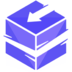
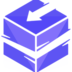
affd

diff --git a/src/pages/HomePageNew.js b/src/pages/HomePageNew.js
@@ -20,7 +20,6 @@ import {archiData, imgTechList, questionsList1, questionsList2, reviewList} from
 import {useViewport} from "../hook/useViewport";
 
 export default function HomePageNew () {
-    const viewPort = useViewport();
     // console.log(viewPort)
 
     const sliderRef = useRef(null);
@@ -37,7 +36,7 @@ export default function HomePageNew () {
 
     return (
         <main className='max-w-7xl mx-auto m-auto text-white h-auto mt-5'>
-            <section className='h-auto lg:pb-20'>
+            <section className='h-auto lg:pb-20 px-2 lg:px-0'>
                 <motion.div
                     variants={staggerContainer}
                     initial="hidden"
@@ -296,8 +295,8 @@ export default function HomePageNew () {
                             ref={sliderRef}
                             spaceBetween={0}
                             breakpoints={{
-                                320: { slidesPerView: 2, spaceBetween: 5 },
-                                480: { slidesPerView: 2, spaceBetween: 0 },
+                                320: { slidesPerView: 1, spaceBetween: 0 },
+                                480: { slidesPerView: 1, spaceBetween: 0 },
                                 768: { slidesPerView: 3, spaceBetween: 0 },
                                 1024: { slidesPerView: 4, spaceBetween: 5 },
                             }}
@@ -340,7 +339,7 @@ export default function HomePageNew () {
                 <p className='text-center lg:text-[60px] text-[48px] font-bold mb-5'>
                     Câu hỏi thường gặp
                 </p>
-                <div className='absolute h-[300px] w-full grid lg:grid-cols-2 grid-cols-1 lg:gap-10 gap-0 mb-10'>
+                <div className='lg:absolute lg:h-[300px] h-auto w-full grid lg:grid-cols-2 grid-cols-1 lg:gap-10 gap-0 lg:mb-10'>
                     <div className='col-span-1 transition ease-in-out delay-150 duration-1000 column-container relative'>
                         {questionsList1.map((question, index) => (
                             <CardQuestion

diff --git a/src/components/Logo.js b/src/components/Logo.js
@@ -2,7 +2,7 @@
 function Logo({...props}) {
   return (
     <div className="logo" {...props}>
-      <img src='/logo.png' alt="logo" className='w-full h-full' />
+      <img src='/logo.png' alt="logo" className='w-full h-full scale-125' />
     </div>
   );
 }
